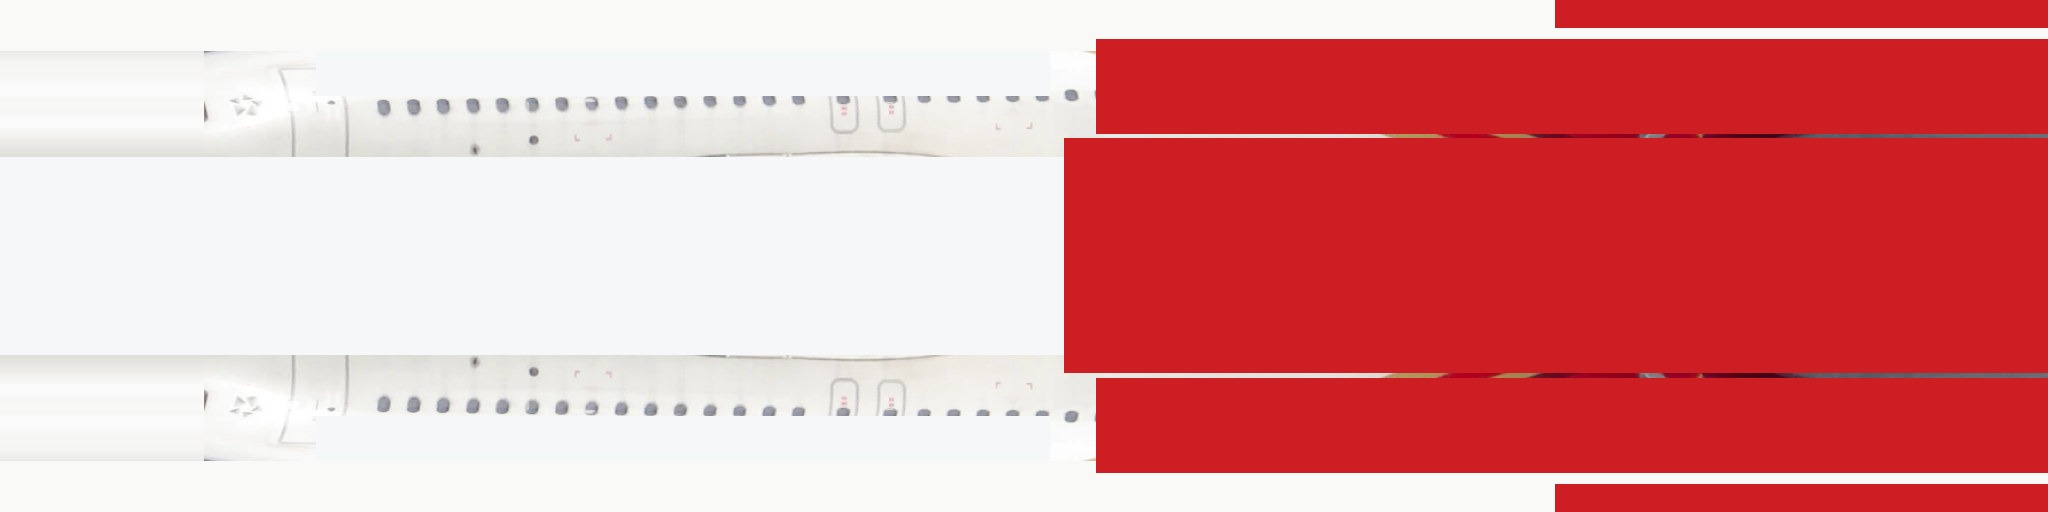
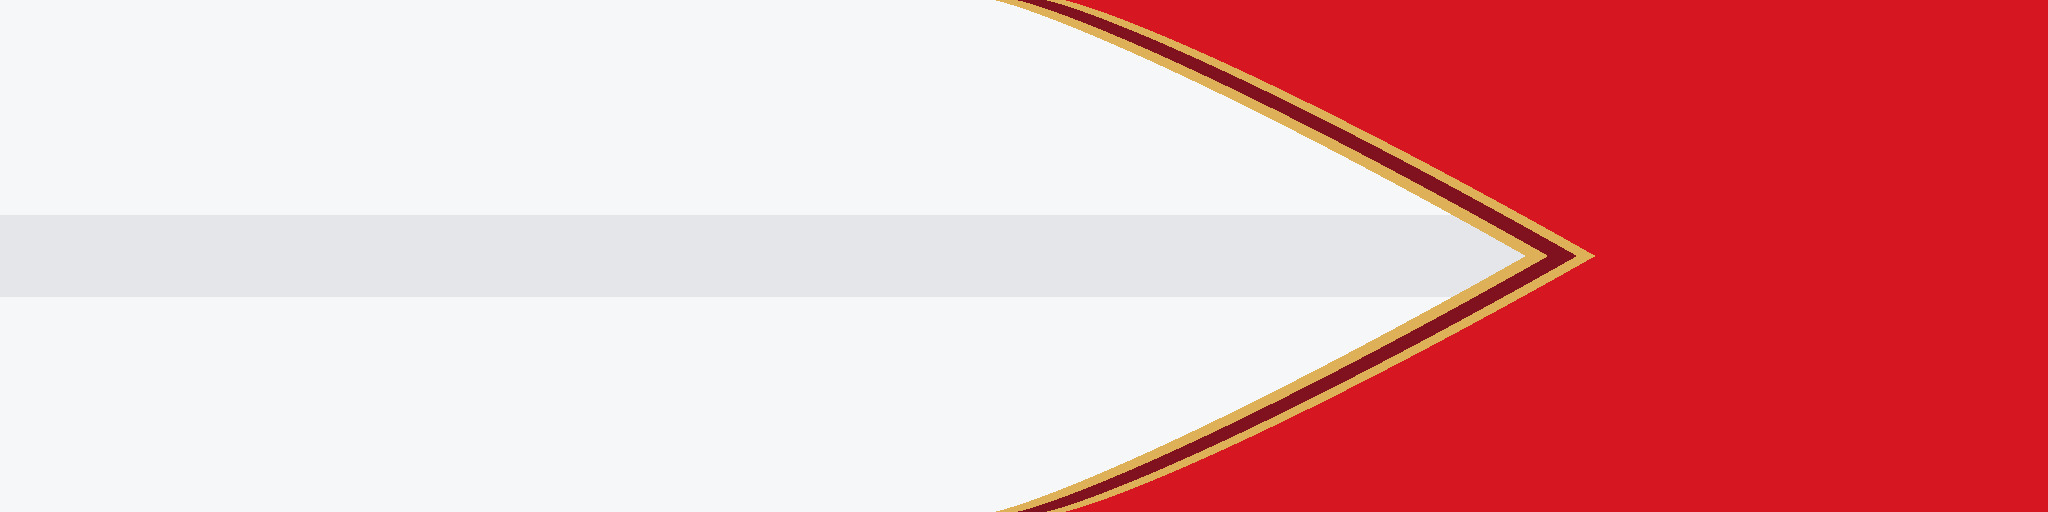
Flight hangar: Shenzhen Airlines livery redrawn from photos
- Fin re-baked from the A320neo tail photo with a corrected fin outline: the gold logo is keyed onto flat red, so no sky, fuselage or skew leaks in
- Fuselage drawn from the livery geometry: white forward, a gold / dark-red / gold sweep running from the crown behind the titles down to the belly behind the wing, red rear fuselage all round
- Titles in dark navy with 深圳航空 forward of Shenzhen Airlines on both sides, upright English; windows painted over the texture

Claude-Session: https://claude.ai/code/session_01DPTgPf9WxpchQEe6ifFgUC

Changed region(s): [[0.0, 0.0, 1.0, 1.0], [0.0938, 0.7812, 0.125, 0.8125], [0.0938, 0.1875, 0.125, 0.2188]]

diff --git a/fleet3d.js b/fleet3d.js
@@ -95,9 +95,10 @@
     '3U': { img: '3U', name: 'Sichuan Airlines', zh: '四川航空', belly: '#cfd3d9', engine: W, lip: '#c9d0d8', winglet: '#d61e28', tail: '3u',
       under: P => { P.below(0.42, '#cfd3d9'); P.band(0.27, 0.3, '#c8102e'); },
       over: P => { const a = P.title('四川航空', 0.17, tv(0.05), 0.05, { col: '#1b5bb5', w: 700, cjk: 1, sp: 0.12 }); P.title('SICHUAN AIRLINES', a[1] + 0.02, tv(0.044), 0.044, { col: '#1b5bb5', w: 800, i: 1 }); } },
-    ZH: { img: 'ZH', overOnArt: true, name: 'Shenzhen Airlines', zh: '深圳航空', belly: '#e9ebee', engine: W, lip: '#c9d0d8', winglet: '#cd1e2b', tail: 'zh',
-      under: P => { P.below(0.42, '#e9ebee'); },
-      over: P => { const a = P.title('Shenzhen Airlines', 0.15, 0.142, 0.05, { col: '#1a1a1a', i: 1, w: 800 }); P.title('深圳航空', a[1] + 0.02, 0.142, 0.05, { col: '#1a1a1a', w: 700, cjk: 1, sp: 0.08 }); } },
+    ZH: { img: 'ZH', overOnArt: true, winOnArt: true, name: 'Shenzhen Airlines', zh: '深圳航空', belly: '#e4e6ea', engine: W, lip: '#c9d0d8', winglet: '#d6161f', tail: 'zh',
+      under: P => { P.below(0.42, '#e4e6ea'); },
+      // Chinese title forward of the English on both sides, in dark navy, as on the aircraft
+      over: P => { const a = P.title('深圳航空', 0.15, tv(0.05), 0.05, { col: '#1d2b4f', w: 700, cjk: 1, sp: 0.1 }); P.title('Shenzhen Airlines', a[1] + 0.018, tv(0.05), 0.05, { col: '#1d2b4f', w: 700 }); } },
     FM: { name: 'Shanghai Airlines', zh: '上海航空', engine: W, lip: '#c9d0d8', winglet: '#c8102e', tail: 'fm',
       under: P => {   // red cheat band below the windows that widens aft of the wing and climbs to the crown at the fin root; a thin white swoosh rides its upper edge
         const s = u => Math.max(0, Math.min(1, (u - 0.55) / 0.45)), top = u => 0.3 - 0.02 * u - 0.3 * s(u) ** 1.6, bot = u => 0.36 + 0.14 * Math.min(1, u / 0.7) ** 0.8;
@@ -444,7 +445,7 @@
     gt(x, w, h, f) { bg(x, w, h, '#1a44b8'); LOGO.guilin(x, f.cx + f.s * 0.02, f.cy - f.s * 0.02, f.s * 1.05, '#ffffff'); },
     hu(x, w, h, f) { bg(x, w, h, '#c8102e'); LOGO.hna(x, f.cx + f.s * 0.05, f.cy - f.s * 0.05, f.s * 1.1, '#e0a526'); },
     '3u'(x, w, h, f) { bg(x, w, h, '#c8102e'); x.strokeStyle = '#f5c400'; x.lineWidth = f.s * 0.06; for (let i = 0; i < 4; i++) { x.beginPath(); x.arc(f.cx - f.s * 0.2 + i * f.s * 0.13, f.cy + f.s * 0.35 - i * f.s * 0.12, f.s * 0.45, Math.PI * 1.15, Math.PI * 1.75); x.stroke(); } },
-    zh(x, w, h, f) { bg(x, w, h, '#c8102e'); disc(x, f.cx, f.cy, f.s * 0.4, '#f2b632'); LOGO.egret(x, f.cx, f.cy, f.s * 0.55, '#c8102e'); },
+    zh(x, w, h, f) { bg(x, w, h, '#d6161f'); LOGO.egret(x, f.cx, f.cy, f.s * 0.85, '#dea958'); },   // fallback before the baked fin loads
     fm(x, w, h, f) { bg(x, w, h, '#c8102e'); LOGO.egret(x, f.cx, f.cy, f.s * 0.95, '#ffffff'); },
     klm(x, w, h, f) {   // white fin, crown over bold KLM in the upper half; the fuselage blue climbs a little onto the fin root
       bg(x, w, h, '#f7f8fa'); band(x, f, 0.9, 1.1, 0.97, 1.1, '#00a1de');

diff --git a/flights.html b/flights.html
@@ -10,8 +10,8 @@
 <link rel="preconnect" href="https://fonts.googleapis.com">
 <link href="https://fonts.googleapis.com/css2?family=Chakra+Petch:wght@400;500;600;700&family=JetBrains+Mono:wght@400;600&family=Pinyon+Script&family=Source+Sans+3:wght@400;600&display=swap" rel="stylesheet">
 <link rel="stylesheet" href="https://cdnjs.cloudflare.com/ajax/libs/leaflet/1.9.4/leaflet.min.css" crossorigin="">
-<script src="aviation.js?v=202610051200"></script>
-<script src="fleet3d.js?v=202610051200"></script>
+<script src="aviation.js?v=202610051400"></script>
+<script src="fleet3d.js?v=202610051400"></script>
 <style>
   /* Flight log: a private page (same travel password and encrypted file as travel.html) in a "cockpit HUD" look, dark or light (site-wide setting). */
   :root {
@@ -678,7 +678,7 @@
 
 <script src="https://cdnjs.cloudflare.com/ajax/libs/leaflet/1.9.4/leaflet.min.js" crossorigin=""></script>
 <script src="site-lang.js"></script>
-<script src="map-base.js?v=202610051200"></script>
+<script src="map-base.js?v=202610051400"></script>
 <script>
 // ─────────────────────────────────────────────────────────────────────────────
 // Data: the flights live inside travel/travel.enc (AES-256-GCM, key derived from the
